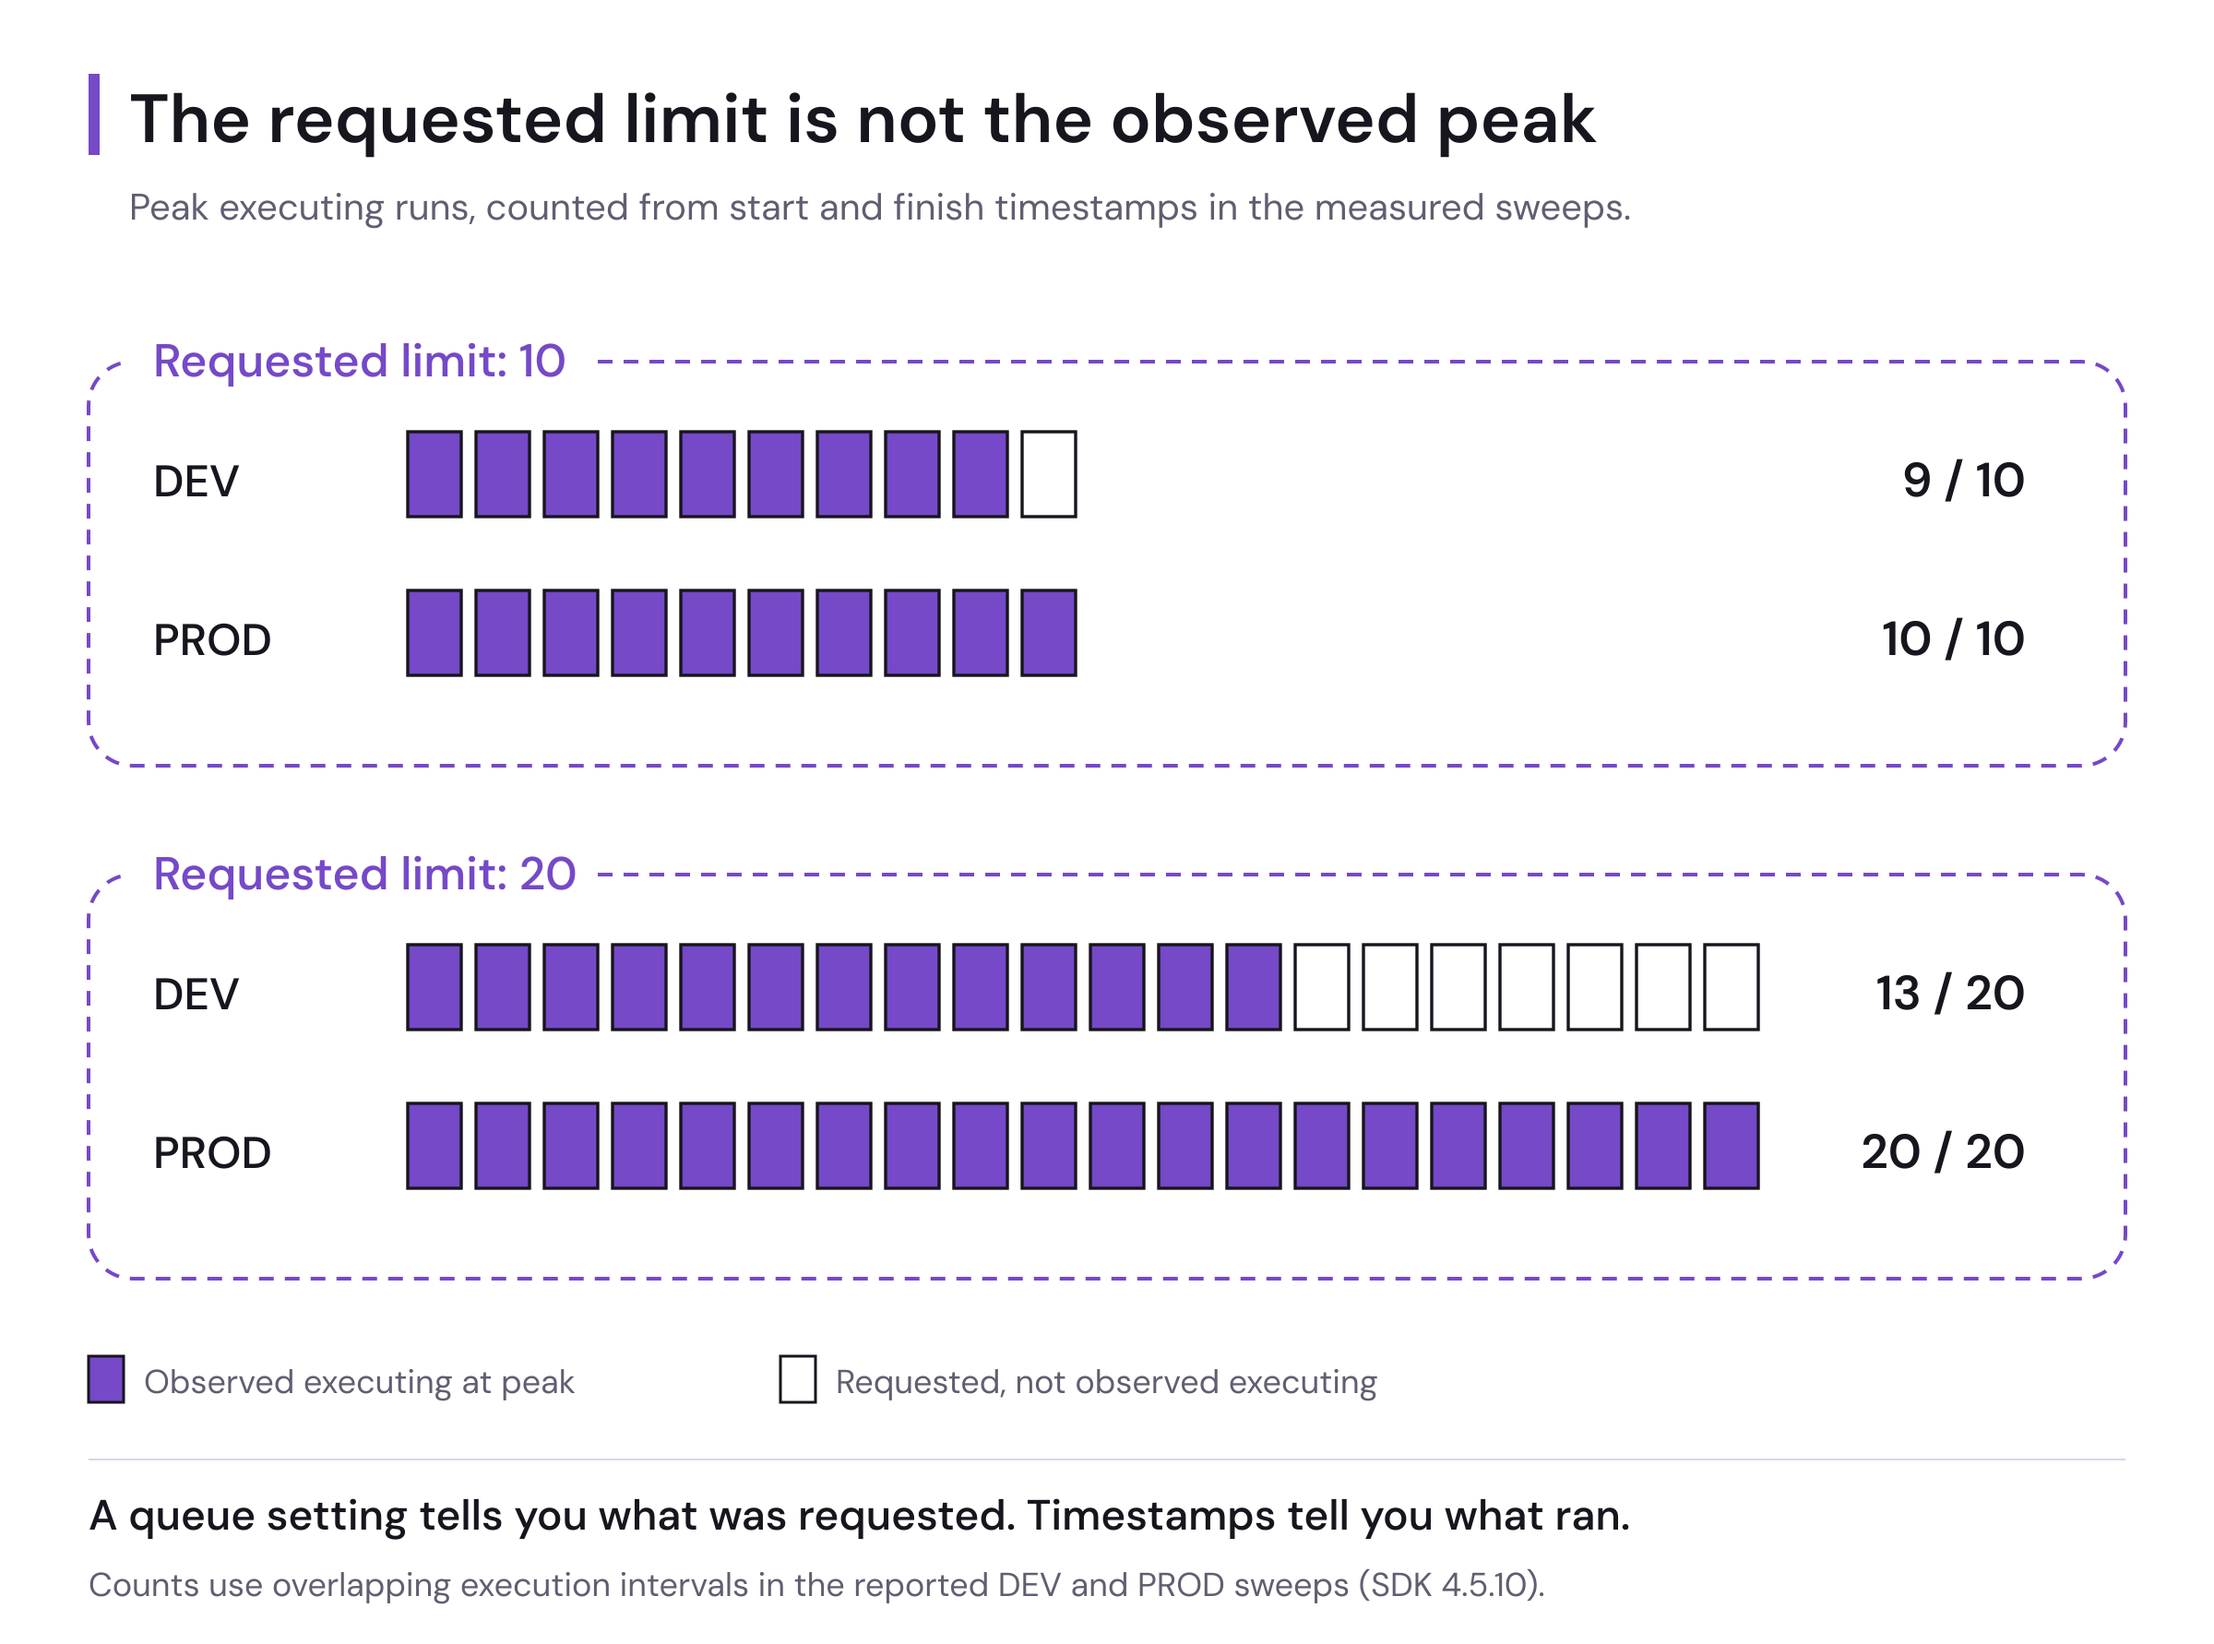
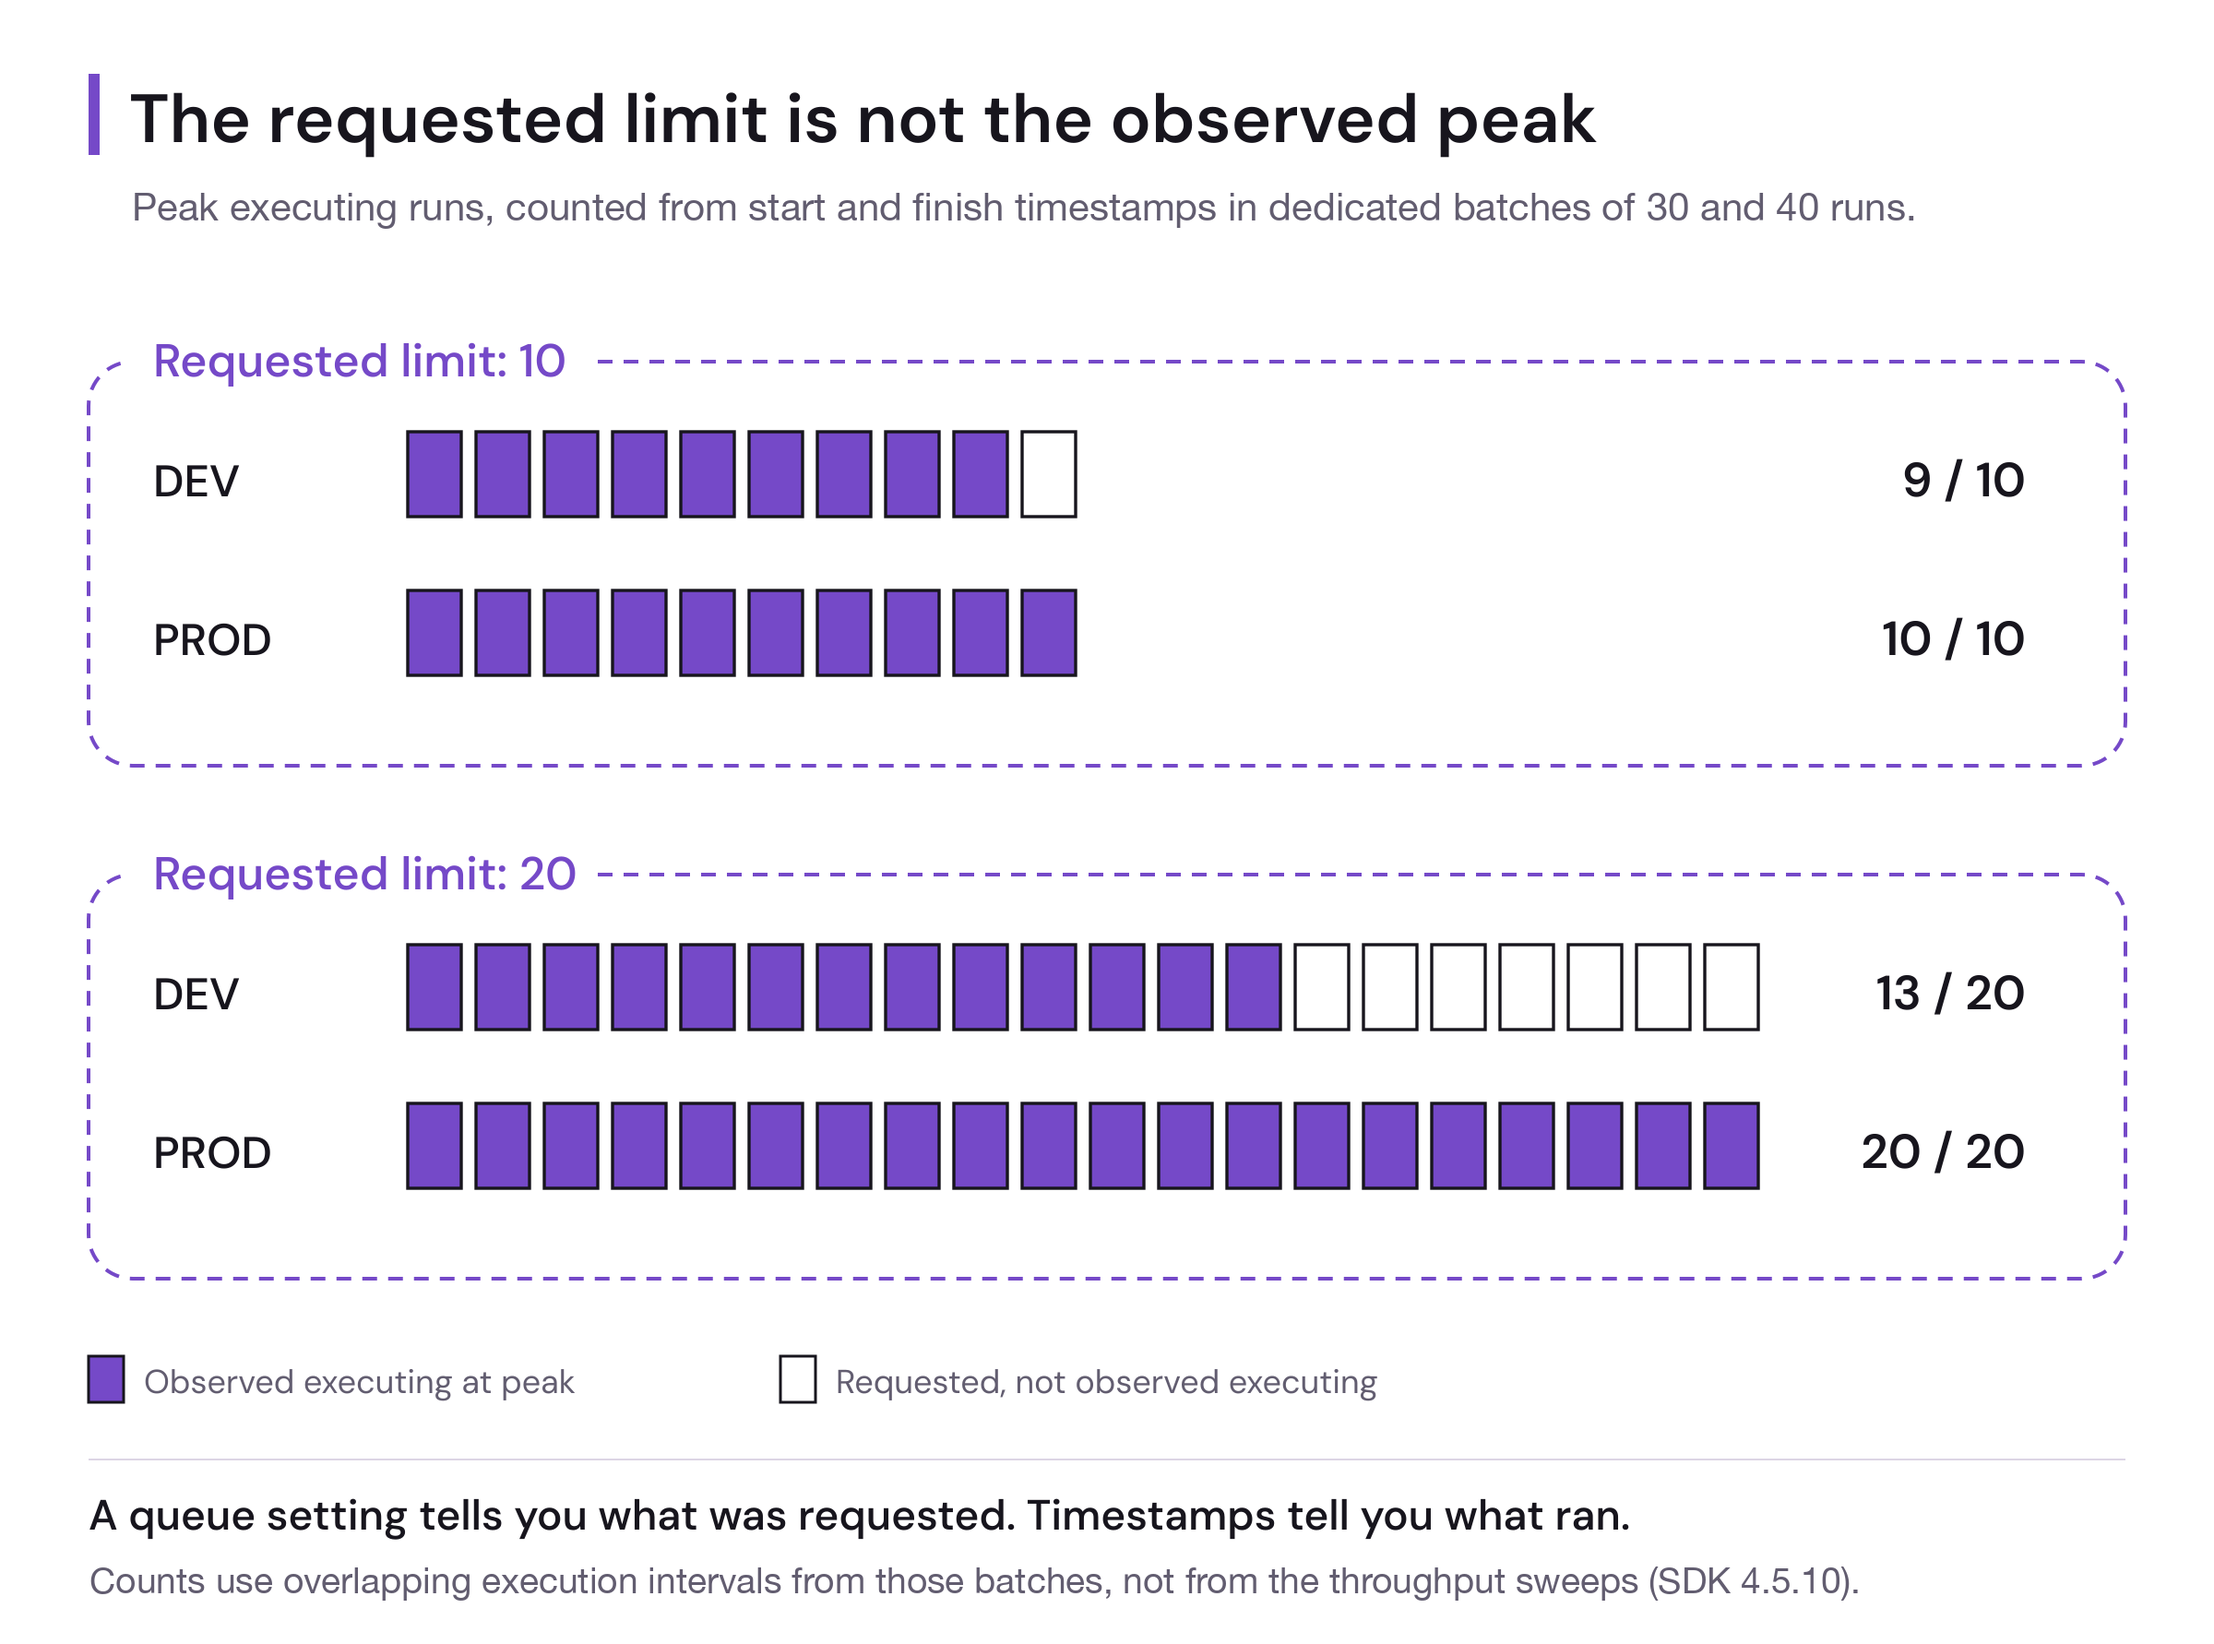
Correct fig-04 provenance, tighten three prose details
The peak counts came from dedicated batches of 30 and 40 runs, not from
the throughput sweeps; fig-04's subtitle and footer said otherwise.
Also restore 600ms to prose, fix fig-03 alt text to 3.67-3.70, and
scope 'full range' to PROD, which is the only range the table carries.

Changed region(s): [[0.0625, 0.1235, 0.8438, 0.1543], [0.0312, 0.9568, 0.7812, 0.9877], [0.8125, 0.9568, 0.8438, 0.9877]]

diff --git a/ARTICLE.md b/ARTICLE.md
@@ -38,7 +38,7 @@ Both terms have to be in the same currency. That is where this came unstuck, twi
 
 The first version made one call per run. Vendor allows 5 req/s, each call takes 200ms, so `5 × 0.2 = 1`, pick 2, let retries cover the overshoot. Wrong, and it took a measurement to see why. **That 0.2 is the vendor's response time. The formula wants how long the run holds its slot**, which was 2.2 seconds.
 
-Then the pipeline grew to three billed calls a company, and I measured where a run's time actually goes.
+Then the pipeline grew to three billed 600ms calls a company, and I measured where a run's time actually goes.
 
 ![A run holds its slot for 3.41 seconds in DEV and 3.60 in PROD. Three 600ms vendor calls account for 1.80 seconds of that; the remainder is 1.61 seconds in DEV and 1.80 in PROD. Dividing the vendor's 5 requests a second by 3 calls per run and multiplying by 3.41 gives about 5.7 concurrent runs.](./assets/fig-02-slot-time.png)
 
@@ -93,11 +93,11 @@ And the part that matters, which is documented. A run doesn't checkpoint until 6
 
 ## The number you feed the formula doesn't hold still
 
-Eight limits, three sweeps each, 20 companies a sweep, SDK 4.5.10, medians below with the full range. Run once in `DEV`, which routes work through my own machine, then again in a free-plan `PROD` environment reaching the mock through a tunnel, whose round trip PROD's numbers carry.
+Eight limits, three sweeps each, 20 companies a sweep, SDK 4.5.10, medians below with PROD's full range. Run once in `DEV`, which routes work through my own machine, then again in a free-plan `PROD` environment reaching the mock through a tunnel, whose round trip PROD's numbers carry.
 
 One caveat that matters for reading the table. The script times each sweep with a two-second poll, so every elapsed figure lands on a two-second grid. That's coarse, and it is the same instrument that killed draft one.
 
-![Throughput against requested concurrency limit in both environments, with min-max whiskers on the PROD sweeps. DEV flattens at 3.70 requests a second from a limit of 7 onward. PROD rises unevenly, dipping at 15, to 4.89 at a limit of 20 against a vendor allowance of 5.](./assets/fig-03-dev-vs-prod.png)
+![Throughput against requested concurrency limit in both environments, with min-max whiskers on the PROD sweeps. DEV flattens between 3.67 and 3.70 requests a second from a limit of 7 onward. PROD rises unevenly, dipping at 15, to 4.89 at a limit of 20 against a vendor allowance of 5.](./assets/fig-03-dev-vs-prod.png)
 
 | `concurrencyLimit` | DEV req/s | PROD req/s | PROD range |
 | ---: | ---: | ---: | :--- |
